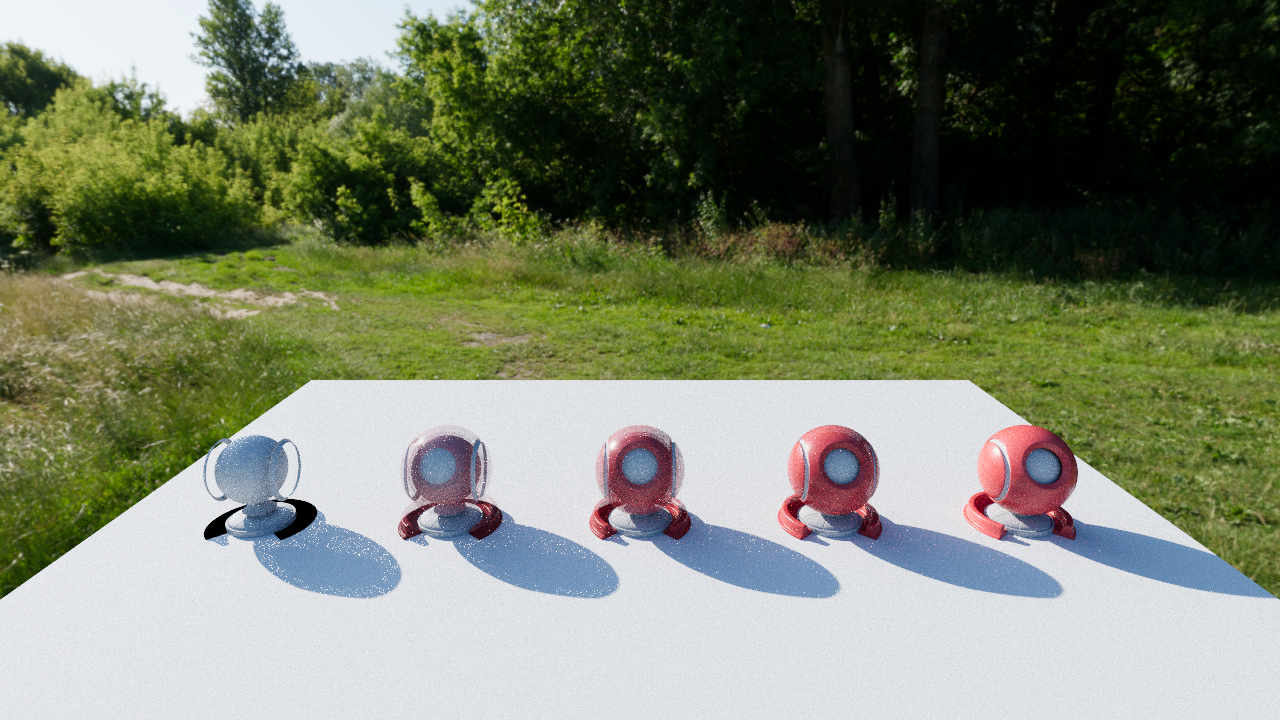
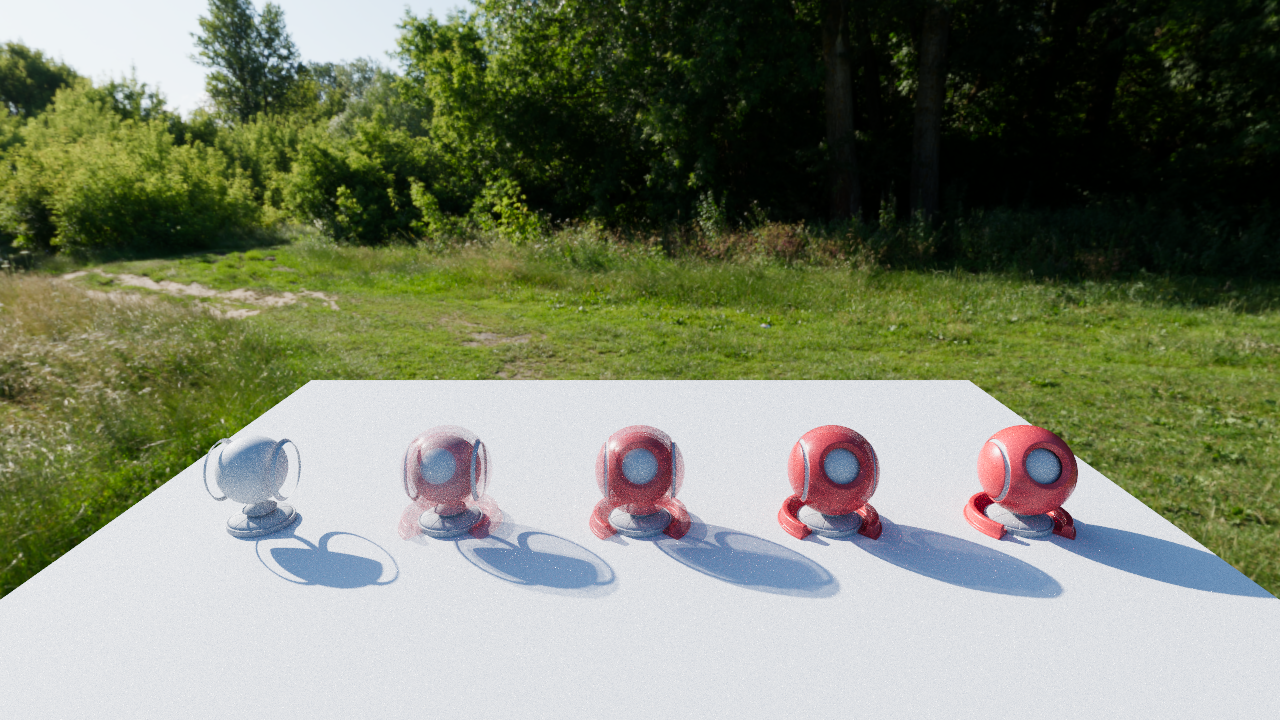
feat: shadow-only any-hit for OpenPBR geometry_opacity transmittance (C14/VK2)
Adds a shadow-only any-hit hit-group pair (anyhit.slang: triangleShadowAnyHit /
sphereShadowAnyHit) that resolves the OpenPBR geometry_opacity/map_opacity presence
weight per crossing and accumulates the (1-alpha) transmittance product, ending the
search early on a fully-present hit. The radiance hit groups are unchanged (no any-hit -
camera/indirect opacity is still the shared estimator's stochastic pass-through gate in
Harmonia's path_integrator.slang). SBT/pipeline widened from 2 to 4 hit-group records
(Pipeline::kHitGroupCount); sphere instances moved to record offset 2 (the procedural
radiance/shadow pair, after the triangle pair).

Bumps the Aether pin to v0.7.3 and the Harmonia pin to v0.7.7 (VK_EXT_opacity_micromap,
the shared traceOccluded->traceTransmittance + null-interaction-epsilon fixes).

Verified: verify-full clean, ctest 42/42, validation-clean; shaderball_checker screenshot
regenerated (new scene) + shaderball_opacity regenerated (the only other gallery scene the
estimator change touches - the rest of the 29-scene gallery is byte-identical, confirming
the fix is a no-op for fully-present geometry).

Release: v0.7.7.

Changed region(s): [[0.1562, 0.5806, 0.6562, 0.8556], [0.6562, 0.7028, 0.6875, 0.7333]]

diff --git a/tests/module/test_scene_build.cpp b/tests/module/test_scene_build.cpp
@@ -24,7 +24,8 @@ TEST_F(RtFixture, Scene_BuildWithMeshAndSphere) {
     const std::uint32_t matMetal = scene.addMaterial(harmonia::Material::metal(sm::float3(0.9F, 0.3F, 0.2F), 0.15F));
 
     harmonia::MeshData box = harmonia::ProceduralGeometry::makeBox(sm::float3(2.0F, 0.1F, 2.0F)); // object space
-    const std::uint32_t boxMesh = scene.addMesh(deviceCtx(), commandPool(), std::move(box), "test.box");
+    const std::uint32_t boxMesh =
+        scene.addMesh(deviceCtx(), commandPool(), std::move(box), harmonia::MeshOpacity{}, "test.box");
     ASSERT_NE(boxMesh, std::numeric_limits<std::uint32_t>::max()) << "Failed to upload floor mesh";
 
     const std::uint32_t sphereMesh = scene.addSphereMesh(deviceCtx(), commandPool(), 0.5F, "test.sphere");
@@ -49,7 +50,8 @@ TEST_F(RtFixture, Scene_BuildWithMeshOnly) {
     const std::uint32_t mat = scene.addMaterial(harmonia::Material::diffuse(sm::float3(0.5F), 1.0F));
 
     harmonia::MeshData tri = harmonia::ProceduralGeometry::makeBox(sm::float3(1.0F));
-    const std::uint32_t mesh = scene.addMesh(deviceCtx(), commandPool(), std::move(tri), "test.solo");
+    const std::uint32_t mesh =
+        scene.addMesh(deviceCtx(), commandPool(), std::move(tri), harmonia::MeshOpacity{}, "test.solo");
     ASSERT_NE(mesh, std::numeric_limits<std::uint32_t>::max());
     ASSERT_NE(scene.addInstance(mesh, harmonia::Xform{}, mat), std::numeric_limits<std::uint32_t>::max());
 
@@ -79,7 +81,8 @@ TEST_F(RtFixture, Scene_BuildWithMultipleInstancesOfOneMesh) {
     const std::uint32_t mat = scene.addMaterial(harmonia::Material::diffuse(sm::float3(0.7F), 1.0F));
 
     harmonia::MeshData box = harmonia::ProceduralGeometry::makeBox(sm::float3(0.8F)); // one unique mesh
-    const std::uint32_t mesh = scene.addMesh(deviceCtx(), commandPool(), std::move(box), "test.shared");
+    const std::uint32_t mesh =
+        scene.addMesh(deviceCtx(), commandPool(), std::move(box), harmonia::MeshOpacity{}, "test.shared");
     ASSERT_NE(mesh, std::numeric_limits<std::uint32_t>::max());
 
     for (std::size_t i = 0; i < 4; ++i) {

diff --git a/tests/integration/test_render.cpp b/tests/integration/test_render.cpp
@@ -170,8 +170,8 @@ TEST(PathTracer, CornellBoxNonBlack) {
     const std::uint32_t lightMaterial = scene.addMaterial(harmonia::Material::emissive(sm::float3(1.0F), 50000.0F));
 
     harmonia::MeshData floorMesh = harmonia::ProceduralGeometry::makeBox(sm::float3(4.0F, 0.1F, 4.0F)); // object space
-    const std::uint32_t floorMeshIdx =
-        scene.addMesh(context->deviceContext(), *commandPool, std::move(floorMesh), "test.floor");
+    const std::uint32_t floorMeshIdx = scene.addMesh(
+        context->deviceContext(), *commandPool, std::move(floorMesh), harmonia::MeshOpacity{}, "test.floor");
     if (floorMeshIdx == std::numeric_limits<std::uint32_t>::max() ||
         scene.addInstance(floorMeshIdx, harmonia::Xform{.translation = {0.0F, -1.5F, 0.0F}}, floorMaterial) ==
             std::numeric_limits<std::uint32_t>::max()) {

diff --git a/src/hyperion/renderer/ShaderBindingTable.cpp b/src/hyperion/renderer/ShaderBindingTable.cpp
@@ -14,7 +14,7 @@ ShaderBindingTable::create(const harmonia::DeviceContext& ctx,
                            const VkPhysicalDeviceRayTracingPipelinePropertiesKHR& rtProps) {
     constexpr std::uint32_t raygenCount = 1;
     constexpr std::uint32_t missCount = 2;
-    constexpr std::uint32_t hitCount = 2;
+    constexpr std::uint32_t hitCount = harmonia::Pipeline::kHitGroupCount;
     constexpr std::uint32_t groupCount = raygenCount + missCount + hitCount;
 
     const std::uint32_t handleSize = rtProps.shaderGroupHandleSize;

diff --git a/src/hyperion/ShaderPaths.hpp b/src/hyperion/ShaderPaths.hpp
@@ -13,6 +13,7 @@
         .intersection = rootDir / "intersection.spv",
         .miss = rootDir / "miss.spv",
         .shadowMiss = rootDir / "shadow_miss.spv",
+        .shadowAnyHit = rootDir / "anyhit.spv",
     };
 }
 

diff --git a/README.md b/README.md
@@ -11,7 +11,7 @@ It implements the [OpenPBR Surface v1.1.1](https://academysoftwarefoundation.git
 
 ## Screenshots
 
-All 29 test scenes — Hyperion path tracer at **64 spp**, 1280×720 (fireflies from the low
+All 30 test scenes — Hyperion path tracer at **64 spp**, 1280×720 (fireflies from the low
 sample count are expected; 64 spp keeps the full-gallery render tractable).
 
 | cornell_classic | cornell_classic_rec709 | cornell_empty |
@@ -46,13 +46,13 @@ sample count are expected; 64 spp keeps the full-gallery render tractable).
 |:---:|:---:|:---:|
 | ![shaderball_thinfilm](screenshots/shaderball_thinfilm.png) | ![shaderball_transmission](screenshots/shaderball_transmission.png) | ![shaderball_emission](screenshots/shaderball_emission.png) |
 
-| shader_ball | bunny_shaderball | camera_suzanne |
+| shaderball_checker | shader_ball | bunny_shaderball |
 |:---:|:---:|:---:|
-| ![shader_ball](screenshots/shader_ball.png) | ![bunny_shaderball](screenshots/bunny_shaderball.png) | ![camera_suzanne](screenshots/camera_suzanne.png) |
+| ![shaderball_checker](screenshots/shaderball_checker.png) | ![shader_ball](screenshots/shader_ball.png) | ![bunny_shaderball](screenshots/bunny_shaderball.png) |
 
-| ABeautifulGame | dragon_teapot |
-|:---:|:---:|
-| ![ABeautifulGame](screenshots/ABeautifulGame.png) | ![dragon_teapot](screenshots/dragon_teapot.png) |
+| camera_suzanne | ABeautifulGame | dragon_teapot |
+|:---:|:---:|:---:|
+| ![camera_suzanne](screenshots/camera_suzanne.png) | ![ABeautifulGame](screenshots/ABeautifulGame.png) | ![dragon_teapot](screenshots/dragon_teapot.png) |
 
 ---
 
@@ -84,7 +84,7 @@ All parameters follow the [OpenPBR spec](https://academysoftwarefoundation.githu
 | Thin-film | `thin_film_weight`, `thin_film_thickness`, `thin_film_ior` |
 | Transmission | `transmission_weight`, `transmission_color`, `transmission_depth` |
 | Subsurface | `subsurface_weight`, `subsurface_color`, `subsurface_radius`, `subsurface_radius_scale`, `subsurface_scatter_anisotropy` |
-| Geometry | `geometry_opacity` |
+| Geometry | `geometry_opacity`, `map_opacity` | true presence weight (`mix(ambient-medium, surface, α)`, spec §Opacity/Transparency) — resolved stochastically at every hit, textured or scalar; shadow rays carry the matching `∏(1-α)` transmittance. `VK_EXT_opacity_micromap` accelerates a textured mask's RT traversal (`shaderball_checker`) without changing the result — see `shaderball_checker_omm.micromap.toml` |
 
 Conductor reflectance uses the OpenPBR generalized-Schlick **F82-tint** model
 (`base_color` = F0, `specular_color` = the 82° tint); specular/coat microfacets
